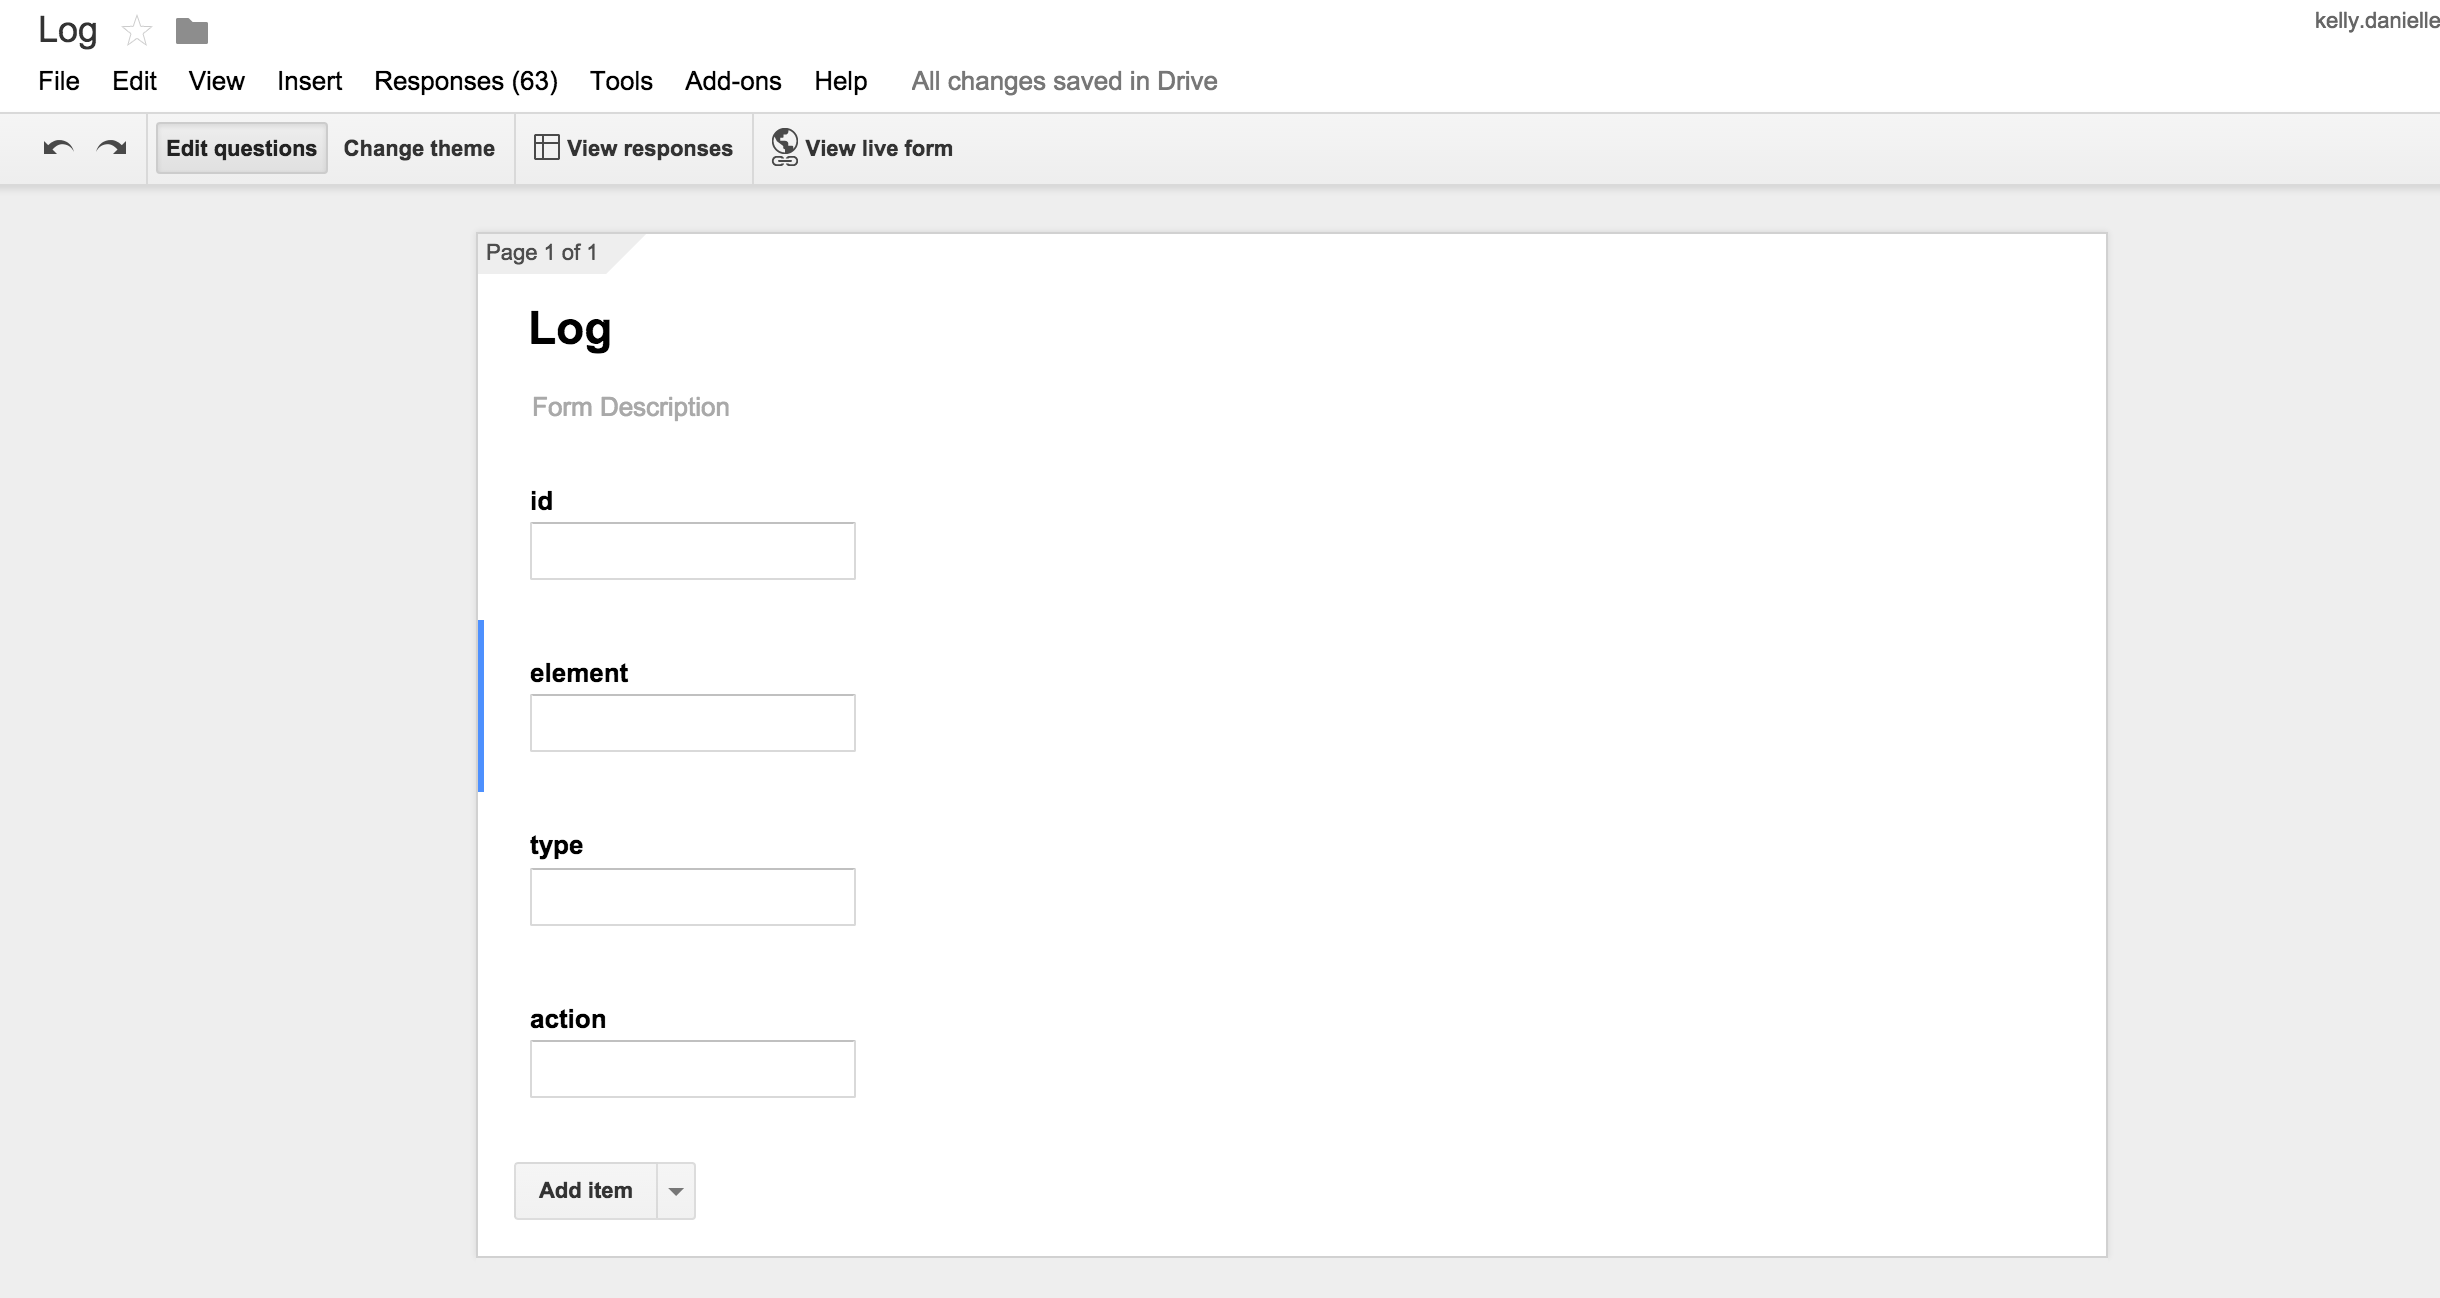
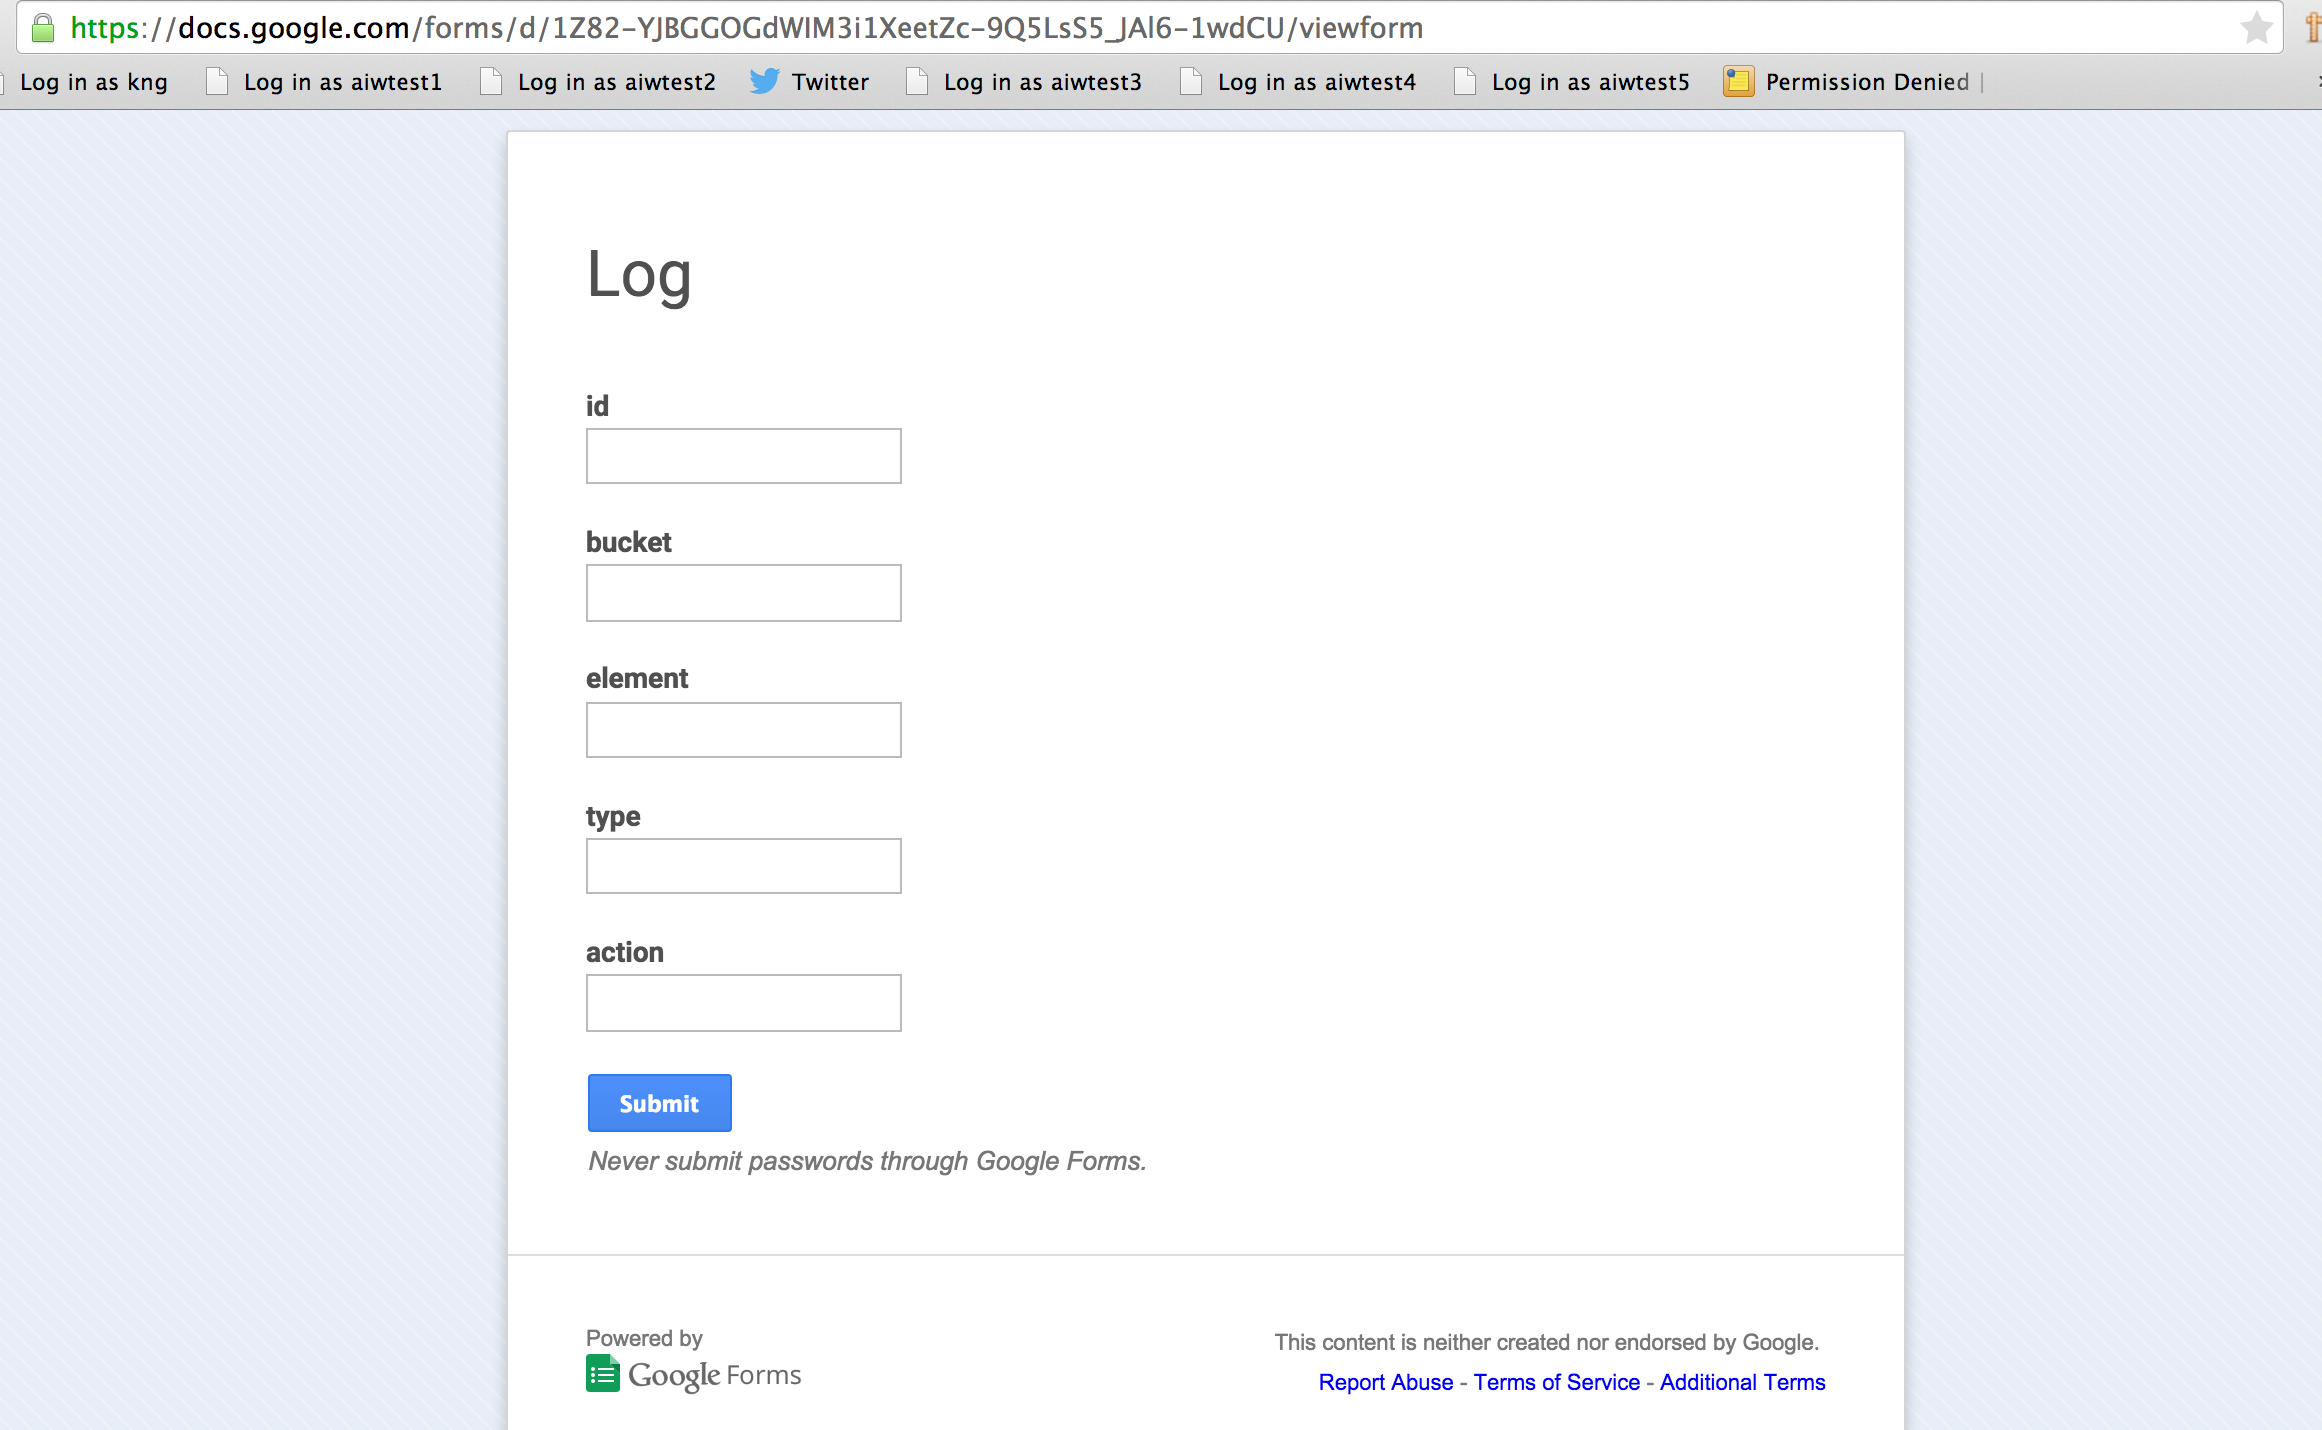
add control bucket

Changed region(s): [[0.0, 0.0, 1.0, 0.9861], [0.2481, 0.4622, 0.3101, 0.4931]]

diff --git a/js/log.js b/js/log.js
@@ -1,12 +1,14 @@
-function log(eventData) {
-  user = getCookie("userid") || "anonymous";
+var userid = getCookie("userid");
+var bucket = getCookie("placeholder_bucket");
 
+function log(eventData) {
   $.ajax({
     url: "https://docs.google.com/forms/d/1Z82-YJBGGOGdWIM3i1XeetZc-9Q5LsS5_JAl6-1wdCU/formResponse",
     data: {
-      "entry_1113866268" : user,
+      "entry_1611674180" : userid,
+      "entry_164936215" : bucket,
       "entry_1659896898" : eventData.element || "",
-      "entry_87429884": eventData.type || "",
+      "entry_87429884" : eventData.type || "",
       "entry_1864902988" : eventData.action || ""
       },
     type: "POST",

diff --git a/js/script.js b/js/script.js
@@ -1,25 +1,26 @@
+$(document).ready(function() {
+	logPageVisit();
+	addListeners();
+});
+
 var logPageVisit = function() {
 	var event = {
 		element: "page",
+		type: "home",
 		action: "visit"
 	};
 
 	log(event);
 };
 
-var logInteractions = function() {
-	$('[data-log]').on('click', function(e){
+var addListeners = function() {
+	$('#tweet-compose, #tweet-submit').on('click', function(e) {
 		var event = {
 			element: e.target.nodeName.toLowerCase(),
-			type: $(e.target).data('log'),
+			type: this.id,
 			action: e.type,
 		};
 
 		log(event);
 	});
 };
-
-$(document).ready(function() {
-	logPageVisit();
-	logInteractions();
-});

diff --git a/css/style.css b/css/style.css
@@ -17,7 +17,7 @@ h1, h2, h3, h4, h5, h6 {
 	border-radius: 5px;
 }
 .container {
-	width: 80%;
+	width: 50%;
 	margin: 0 auto;
 	padding: 2em;
 	background: #fff;

diff --git a/index.php b/index.php
@@ -1,14 +1,31 @@
 <?php
-  $userid = 1;
-  if (isset($_COOKIE["userid"])) {
-    $userid = $_COOKIE["userid"];
-  } else {
-    $userid = rand(1, 1000000);
-    setcookie("userid", $userid,time()+60*60*24*365);
+
+  if (!isset($_COOKIE["userid"])) {
+    setcookie("userid", rand(1, 1000000));
   }
 
-  // Users with even ids are in the experiment
-  $is_experiment_user = $userid % 2 === 0;
+  if (!isset($_COOKIE["placeholder_bucket"])) {
+    // if this is a new visitor, generate a random number
+    // so we can decide whether to put them in the experiment
+    $random = rand(1, 10);
+
+    switch ($random) {
+      case 1:
+        $cookieValue = "in_experiment";
+        break;
+      case 2:
+        $cookieValue = "in_control";
+        break;
+      default:
+        $cookieValue = "none";
+        break;
+    }
+
+    setcookie("placeholder_bucket", $cookieValue);
+  }
+
+  // multiple code paths
+  $in_experiment = $_COOKIE["placeholder_bucket"] == "in_experiment";
   $placeholder = ($is_experiment_user) ? "'sup?" : "What's happening?";
 ?>
 <!DOCTYPE html>
@@ -16,18 +33,17 @@
 <head>
 	<meta charset="UTF-8">
 	<meta name="viewport" content="initial-scale=1">
-	<title>Logging Test</title>
+	<title>Logging Example</title>
 	<link rel="stylesheet" href="css/style.css" />
-
 </head>
 <body>
 	<div class="container">
-		<h1>Logging Test</h1>
-		<div class="tweet-box">
-      <img src="images/avatar.jpeg" alt="avatar" />
-			<input data-log="compose" type="text" placeholder="<?php echo $placeholder; ?>" />
-			<button data-log="tweet">Tweet</button>
-		</div>
+		<h1>Logging Example</h1>
+	<div class="tweet-box">
+    <img src="images/avatar.jpeg" alt="avatar" />
+		<input id="tweet-compose" type="text" placeholder="<?php echo $placeholder; ?>" />
+		<button id="tweet-submit">Tweet</button>
+	</div>
 	</div>
 	<script src="js/jquery.min.js"></script>
 	<script src="js/log.js"></script>

diff --git a/README.md b/README.md
@@ -9,23 +9,24 @@
 This currently logs to my personal google doc. To log events to your own Google doc, follow these steps:
 
 1. Create a new form in Google Drive
-* Add four text fields: **id**, **element**, **type** and **action**
+2. Add four text fields: **id**, **bucket**, **element**, **type** and **action**
 
  ![Finding form id](/images/form.png)
-* Click **View form** to see your Google form, where you can find your specific Google doc info. See [Adding Your Google Form Info](#googleform).
-* Replace the values in `js/log.js` with your own Google doc info.
-
+3. Click **View form** to see your Google form, where you can find your specific Google doc info. See [Adding Your Google Form Info](#googleform).
+4. Replace the values in `js/log.js` with your own Google doc info.
 
     $.ajax({
       url: "https://docs.google.com/forms/d/<YOUR_FORM_ID>/formResponse",
       data: {
         "entry_<YOUR_INPUT_1>" : user,
-        "entry_<YOUR_INPUT_2>" : eventData.element || "",
-        "entry_<YOUR_INPUT_3>" : eventData.type || "",
-        "entry_<YOUR_INPUT_4>" : eventData.action || ""
-    }
-* Visit localhost:8888 and interact with the page.
-* See results in your Google form
+        "entry_<YOUR_INPUT_2>" : bucket,
+        "entry_<YOUR_INPUT_3>" : eventData.element || "",
+        "entry_<YOUR_INPUT_4>" : eventData.type || "",
+        "entry_<YOUR_INPUT_5>" : eventData.action || ""
+    });
+
+5. Visit localhost:8888 and interact with the page.
+6. See results in your Google form
 
  ![Finding form id](/images/spreadsheet.png)
 
